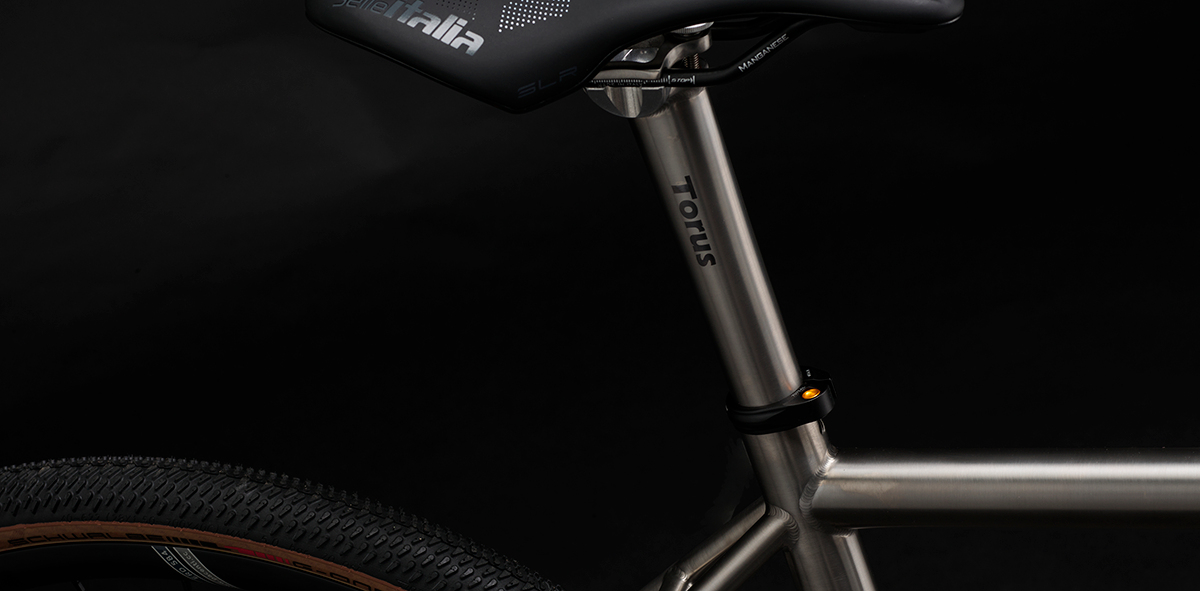
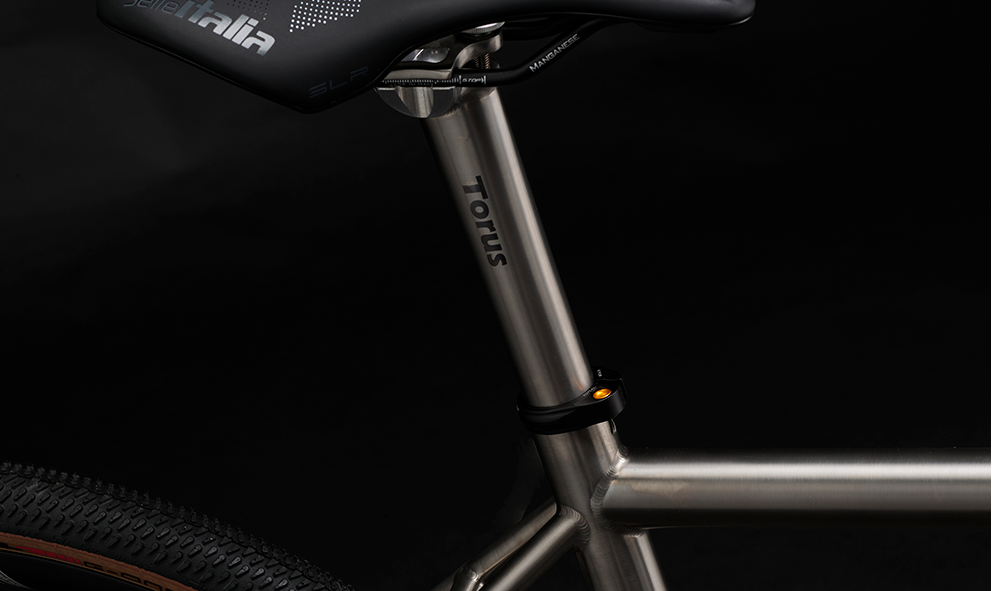
hfdsg

diff --git a/frames.html b/frames.html
@@ -1,0 +1,72 @@
+<!DOCTYPE HTML>
+<html>
+<head>
+	<link rel="stylesheet" href="styleDefault.css">
+	<link href='https://unpkg.com/boxicons@2.1.4/css/boxicons.min.css' rel='stylesheet'>
+	<title> Frames | Torus </title>
+	<link rel="icon" href="images/favicon.png">
+	<style>
+	</style>
+</head>
+
+<body>
+	<div class="menu">
+	<nav class="hide">
+		<img class="navImg" src="images/thumbnail_website-bannerInverted.png">
+		<ul>
+		<li class="navLink">
+			<a href="/">Home </a>
+		</li>
+		<li class="navLink" id="drop">
+			<a href="/products">Products <i class='bx bx-chevron-down'></i></a>
+			<ul class="dropdown">
+				<li><a href "/">Frames</a></li>
+				<li><a href "/">Frames</a></li>
+				<li><a href "/">Frames</a></li>
+			</ul>
+		</li>
+		<li class="navLink">
+			<a href="/">Infomation</a>
+		</li>
+		</ul>
+	</nav>
+	</div>
+	
+	<div class="content">
+		<div class="framesContainer">
+			<div class="framesHeader">
+				<h3> Frames </h3>
+				<p>Below is the perfect choice for a titanium frame to suit your preferred riding </p>
+			</div>
+			<div class="framesDrop">
+				
+			</div>
+		</div>
+	</div>
+	
+	<div class="menu">
+		<div class="bottomSection">
+			<p>
+				<a href=https://www.google.com/maps/place/Bridgnorth/>
+					<i class='bx bx-map' ></i> Located in Shropshire, England
+				</a>
+			</p>
+			<ul class="socials">
+				<li>
+					<a href=https://www.instagram.com/torusbicycles/>
+						<i class='bx bxl-instagram-alt' ></i> Torus Bicycles
+					</a>
+				</li>
+				<li>
+					<a href=https://www.facebook.com/TorusBicycles/>
+						<i class='bx bxl-facebook-circle'></i> Torus Bicycles
+					</a>
+				</li>
+			</ul>
+		</div>
+	</div>
+	
+	
+	
+</body>
+</html>

diff --git a/styleDefault.css b/styleDefault.css
@@ -57,7 +57,7 @@ html {background-color: white}
 	 display:inline-block;
 	 padding:2rem;
 	 color: white;
-	 font-weight: 400;
+	 font-weight: 500;
 	 font-size: 1.4rem;
 	 transition: 0.3s;
  }
@@ -150,6 +150,7 @@ html {background-color: white}
  p{
 	 
  }
+ /*products*/
  .frames{
 	 max-width:1400px;
 	 background-color:  black;
@@ -204,3 +205,18 @@ html {background-color: white}
 	background:black;
 	border: 2px solid white;
  }
+  /*frames*/
+  .framesContainer{
+	  max-width:1400px;
+	  padding: 0 3rem;
+  }
+  .framesHeader{
+	  text-align:center;
+	  padding:2rem 0;
+  }
+  .framesHeader h3{
+	  padding:2rem 0;
+  }
+  .framesDrop{
+	  
+  }

diff --git a/products.html b/products.html
@@ -3,7 +3,7 @@
 <head>
 	<link rel="stylesheet" href="styleDefault.css">
 	<link href='https://unpkg.com/boxicons@2.1.4/css/boxicons.min.css' rel='stylesheet'>
-	<title> Products </title>
+	<title> Products | Torus </title>
 	<link rel="icon" href="images/favicon.png">
 	<style>
 	</style>
@@ -45,7 +45,7 @@
 		</div>
 		<div class="components">
 			<div class="textImage">
-				<img src="images/seatpostBannerNew.png">
+				<img src="images/seatpostCrop.webp">
 				<div class="text">
 					<h3>Components</h3>
 					<p>Check out our range of titanium components which add to the timeless look of our frames</p>

diff --git a/styleFrames.css b/styleFrames.css
@@ -57,7 +57,7 @@ html {background-color: white}
 	 display:inline-block;
 	 padding:2rem;
 	 color: white;
-	 font-weight: 400;
+	 font-weight: 500;
 	 font-size: 1.4rem;
 	 transition: 0.3s;
  }
